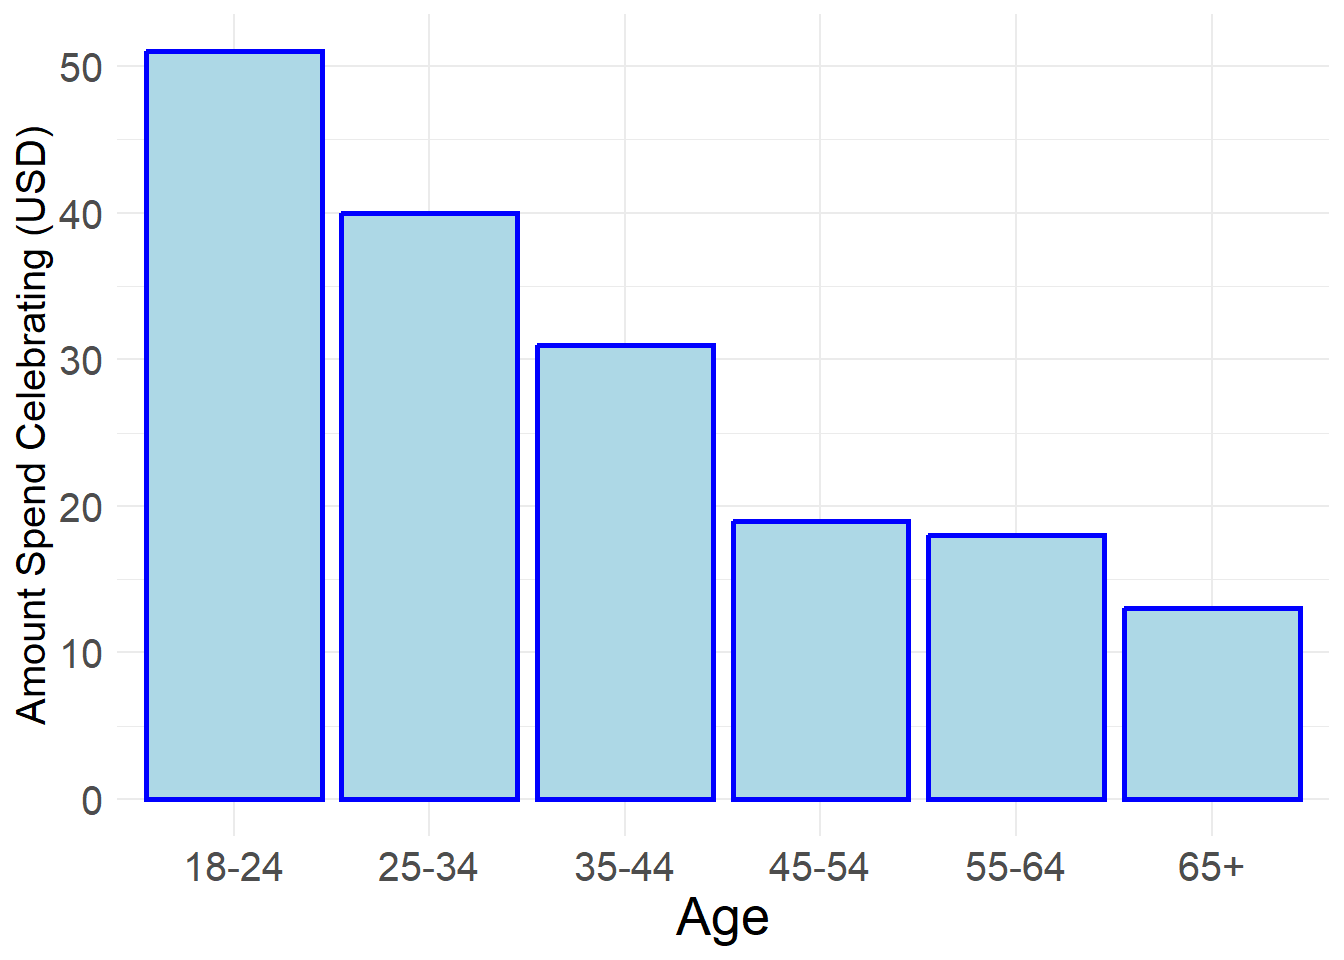
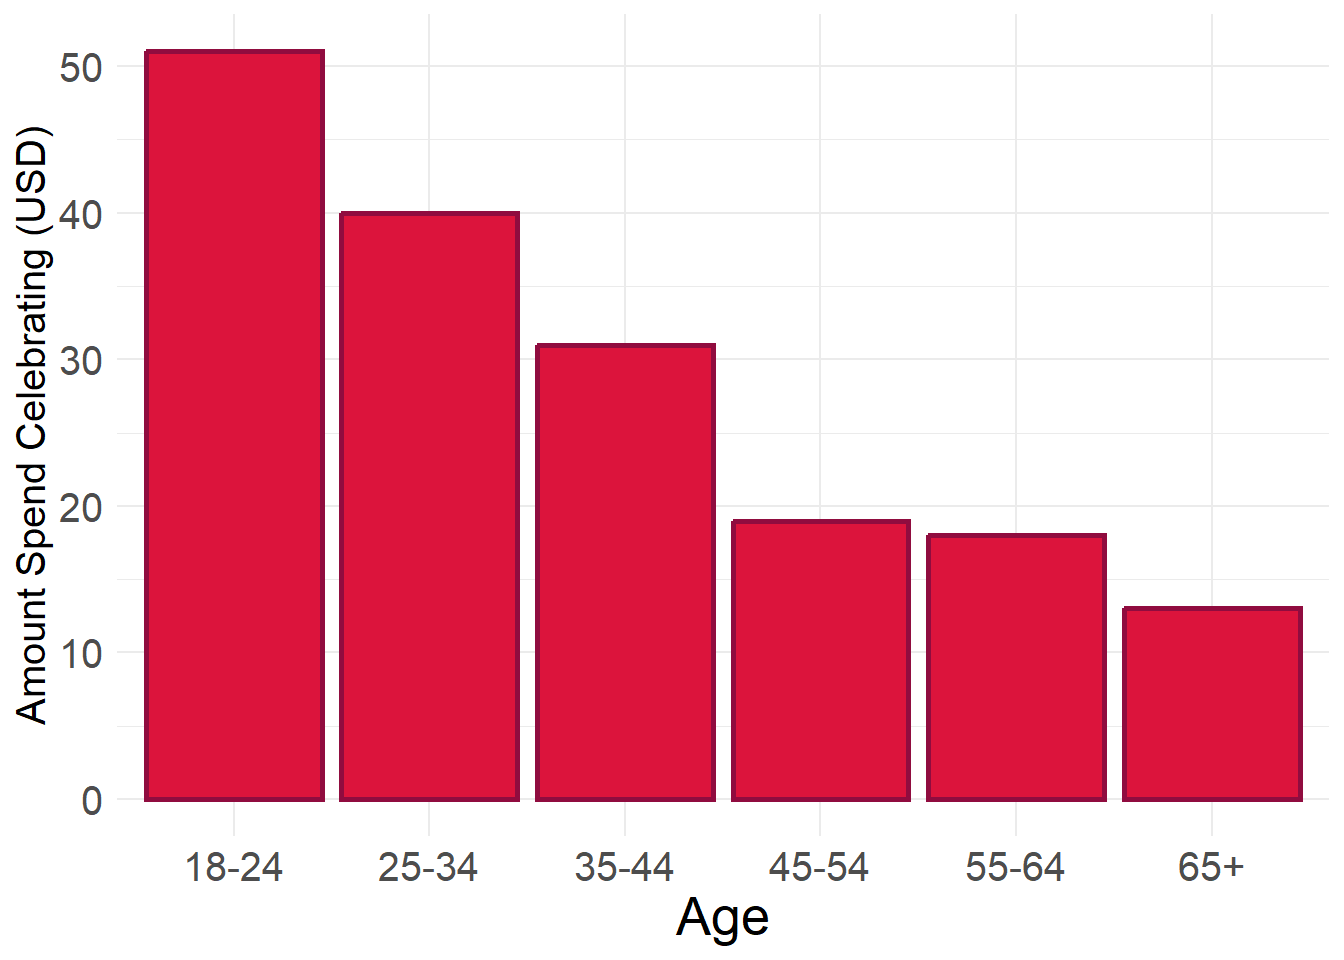
change color for blog 2

diff --git a/docs/posts/valentines_spending/index.html b/docs/posts/valentines_spending/index.html
@@ -279,7 +279,7 @@ dbl (2): Year, PerPersonInflation
 <div class="sourceCode cell-code" id="cb8"><pre class="sourceCode r code-with-copy"><code class="sourceCode r"><span id="cb8-1"><a href="#cb8-1" aria-hidden="true" tabindex="-1"></a>gifts_age_total <span class="ot">&lt;-</span> gifts_age <span class="sc">|&gt;</span> <span class="fu">mutate</span>(<span class="at">total_spending =</span> SpendingCelebrating <span class="sc">+</span> Candy <span class="sc">+</span> Flowers <span class="sc">+</span> Jewelry <span class="sc">+</span> GreetingCards <span class="sc">+</span> EveningOut <span class="sc">+</span> Clothing <span class="sc">+</span> GiftCards)</span>
 <span id="cb8-2"><a href="#cb8-2" aria-hidden="true" tabindex="-1"></a></span>
 <span id="cb8-3"><a href="#cb8-3" aria-hidden="true" tabindex="-1"></a><span class="fu">ggplot</span>(<span class="at">data =</span> gifts_age, <span class="fu">aes</span>(<span class="at">x =</span> Age, <span class="at">y =</span> SpendingCelebrating)) <span class="sc">+</span> </span>
-<span id="cb8-4"><a href="#cb8-4" aria-hidden="true" tabindex="-1"></a>  <span class="fu">geom_col</span>(<span class="at">fill =</span> <span class="st">"lightblue"</span>, <span class="at">color =</span> <span class="st">"blue"</span>, <span class="at">linewidth =</span> <span class="dv">1</span>) <span class="sc">+</span> </span>
+<span id="cb8-4"><a href="#cb8-4" aria-hidden="true" tabindex="-1"></a>  <span class="fu">geom_col</span>(<span class="at">fill =</span> <span class="st">"#DC143C"</span>, <span class="at">color =</span> <span class="st">"#900C3F"</span>, <span class="at">linewidth =</span> <span class="dv">1</span>) <span class="sc">+</span> </span>
 <span id="cb8-5"><a href="#cb8-5" aria-hidden="true" tabindex="-1"></a>  <span class="fu">theme_minimal</span>() <span class="sc">+</span></span>
 <span id="cb8-6"><a href="#cb8-6" aria-hidden="true" tabindex="-1"></a>  <span class="fu">ylab</span>(<span class="st">"Amount Spend Celebrating (USD)"</span>) <span class="sc">+</span></span>
 <span id="cb8-7"><a href="#cb8-7" aria-hidden="true" tabindex="-1"></a>  <span class="fu">theme</span>(<span class="at">axis.text.x =</span> <span class="fu">element_text</span>(<span class="at">size =</span> <span class="dv">15</span>),</span>

diff --git a/docs/index.html b/docs/index.html
@@ -170,7 +170,7 @@ ul.task-list li input[type="checkbox"] {
 
 <div class="quarto-listing quarto-listing-container-default" id="listing-listing">
 <div class="list quarto-listing-default">
-<div class="quarto-post image-right" data-index="0" data-categories="Culture,Consumer" data-listing-date-sort="1708405200000" data-listing-file-modified-sort="1708660792117" data-listing-date-modified-sort="NaN" data-listing-reading-time-sort="4">
+<div class="quarto-post image-right" data-index="0" data-categories="Culture,Consumer" data-listing-date-sort="1708405200000" data-listing-file-modified-sort="1708691339431" data-listing-date-modified-sort="NaN" data-listing-reading-time-sort="4">
 <div class="thumbnail">
 <p><a href="./posts/valentines_spending/index.html"> <img src="./posts/valentines_spending/valentines.jpg" class="thumbnail-image"> </a></p>
 </div>
